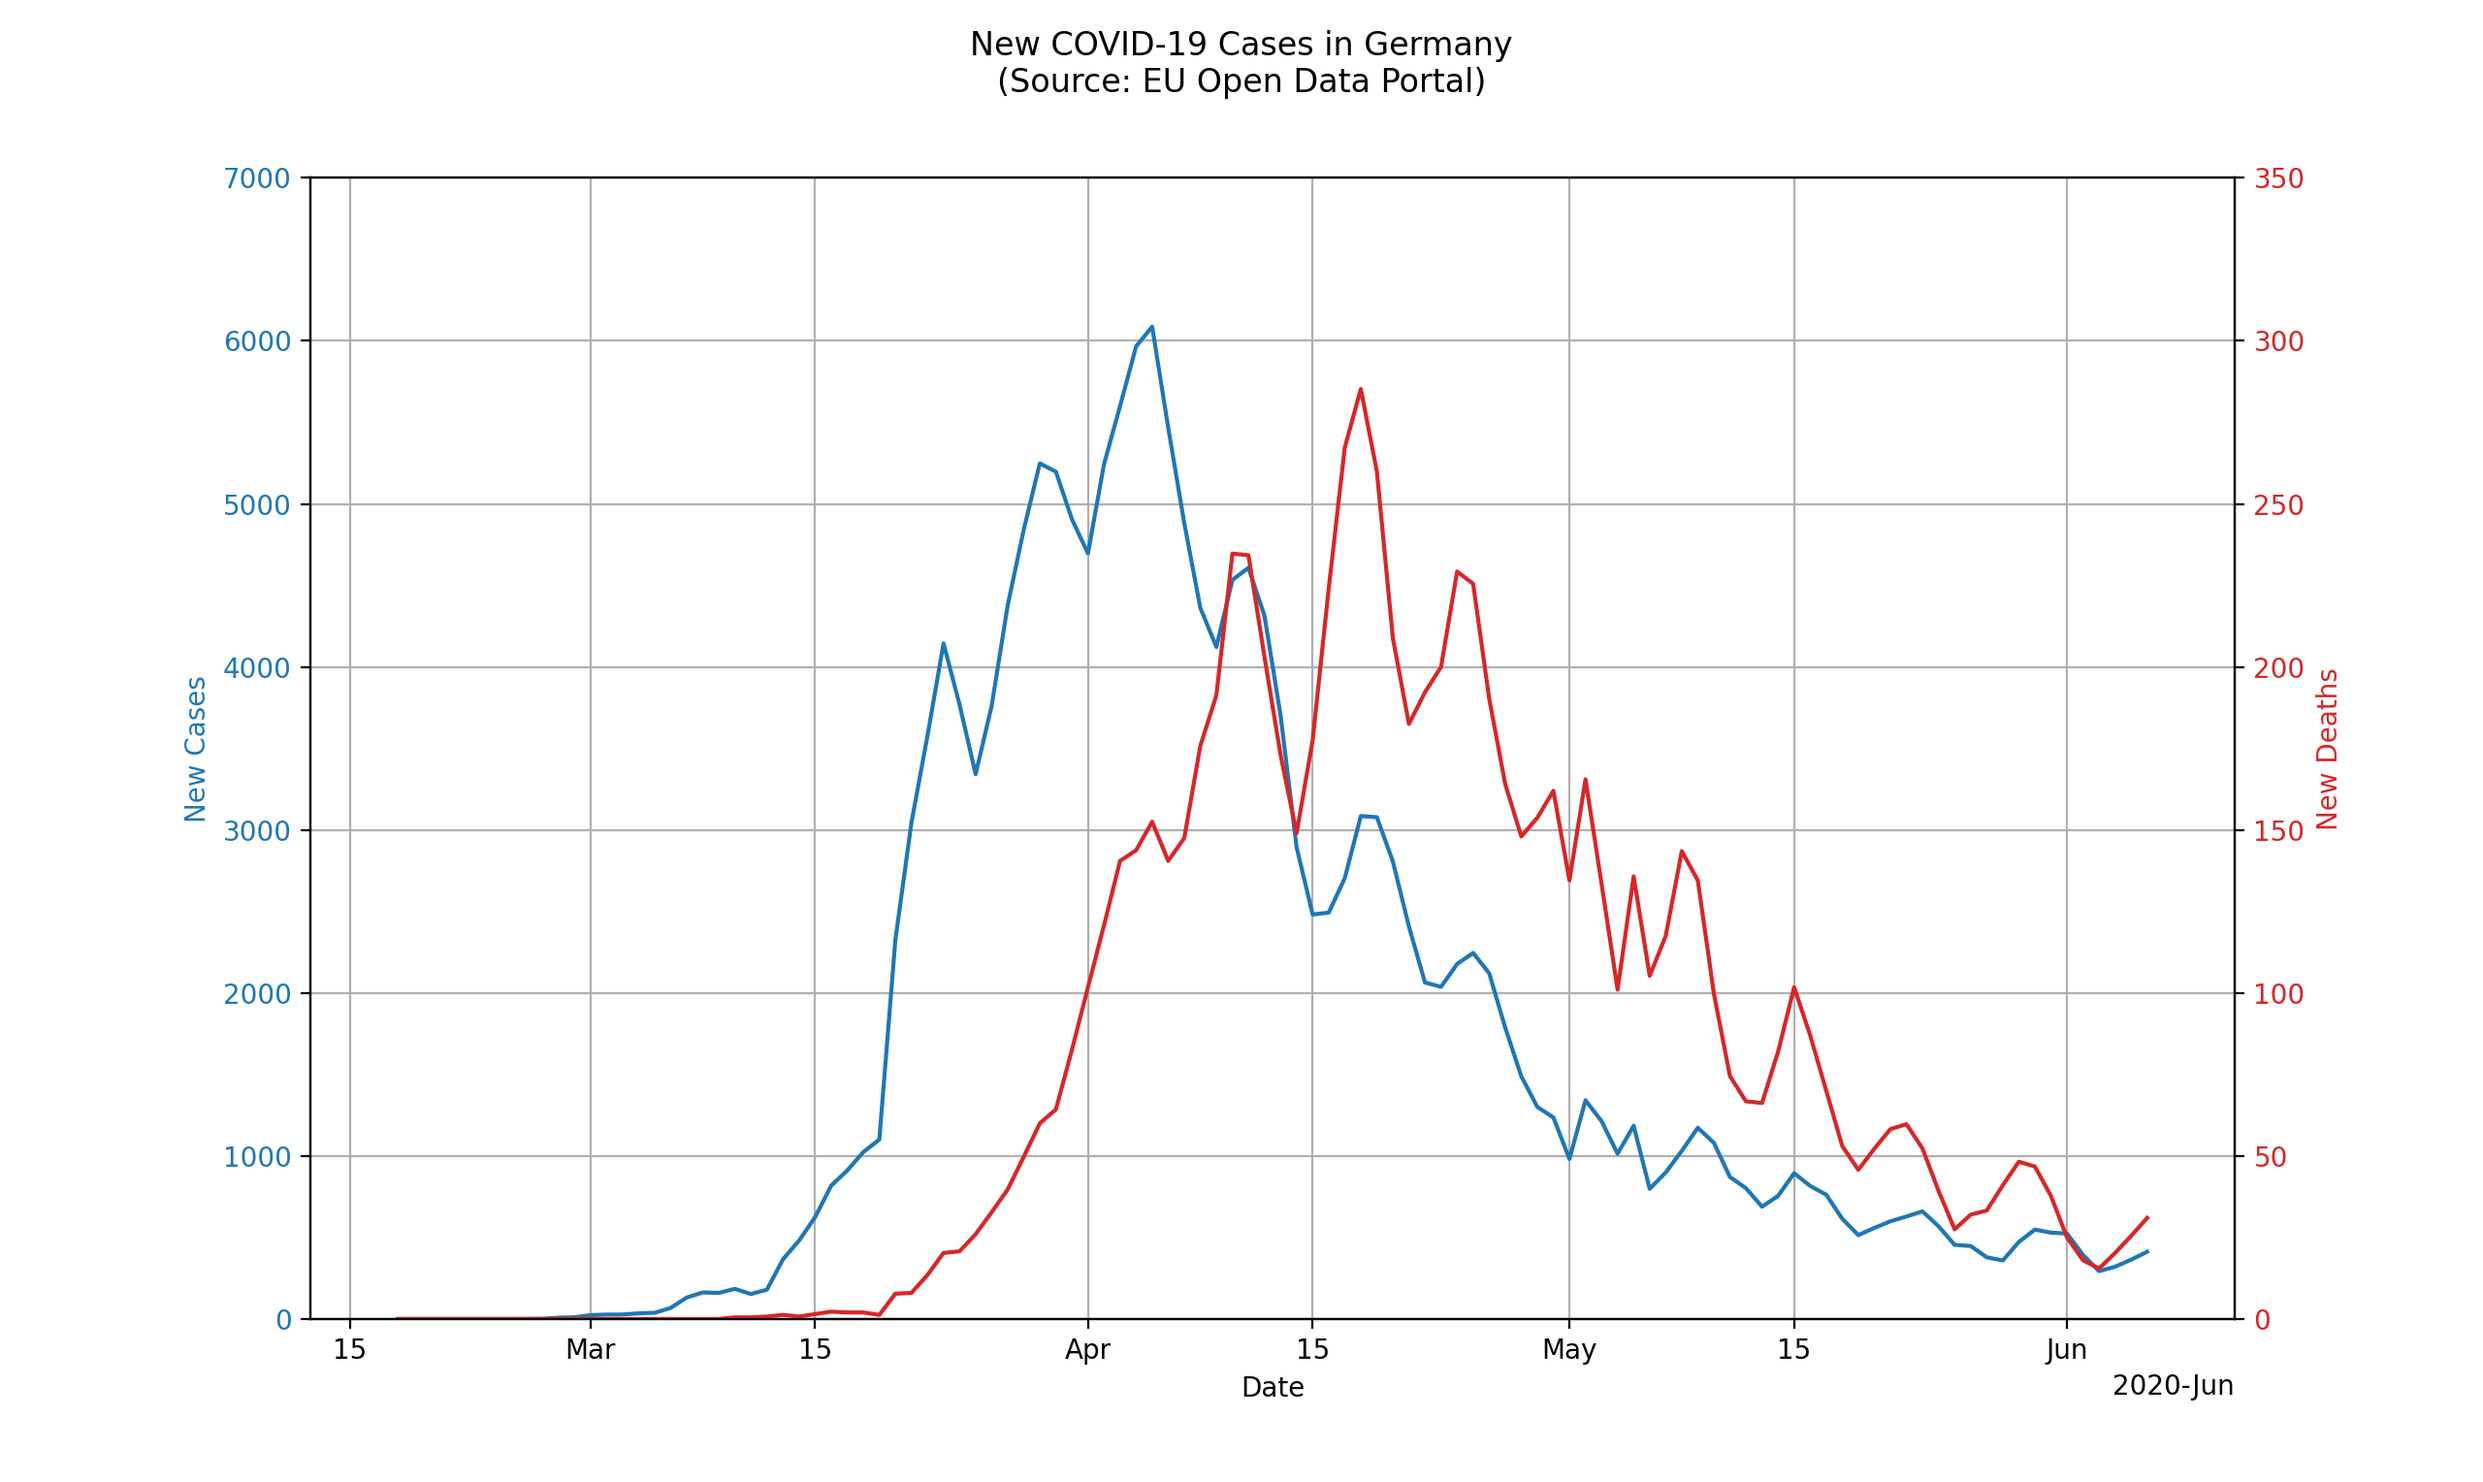
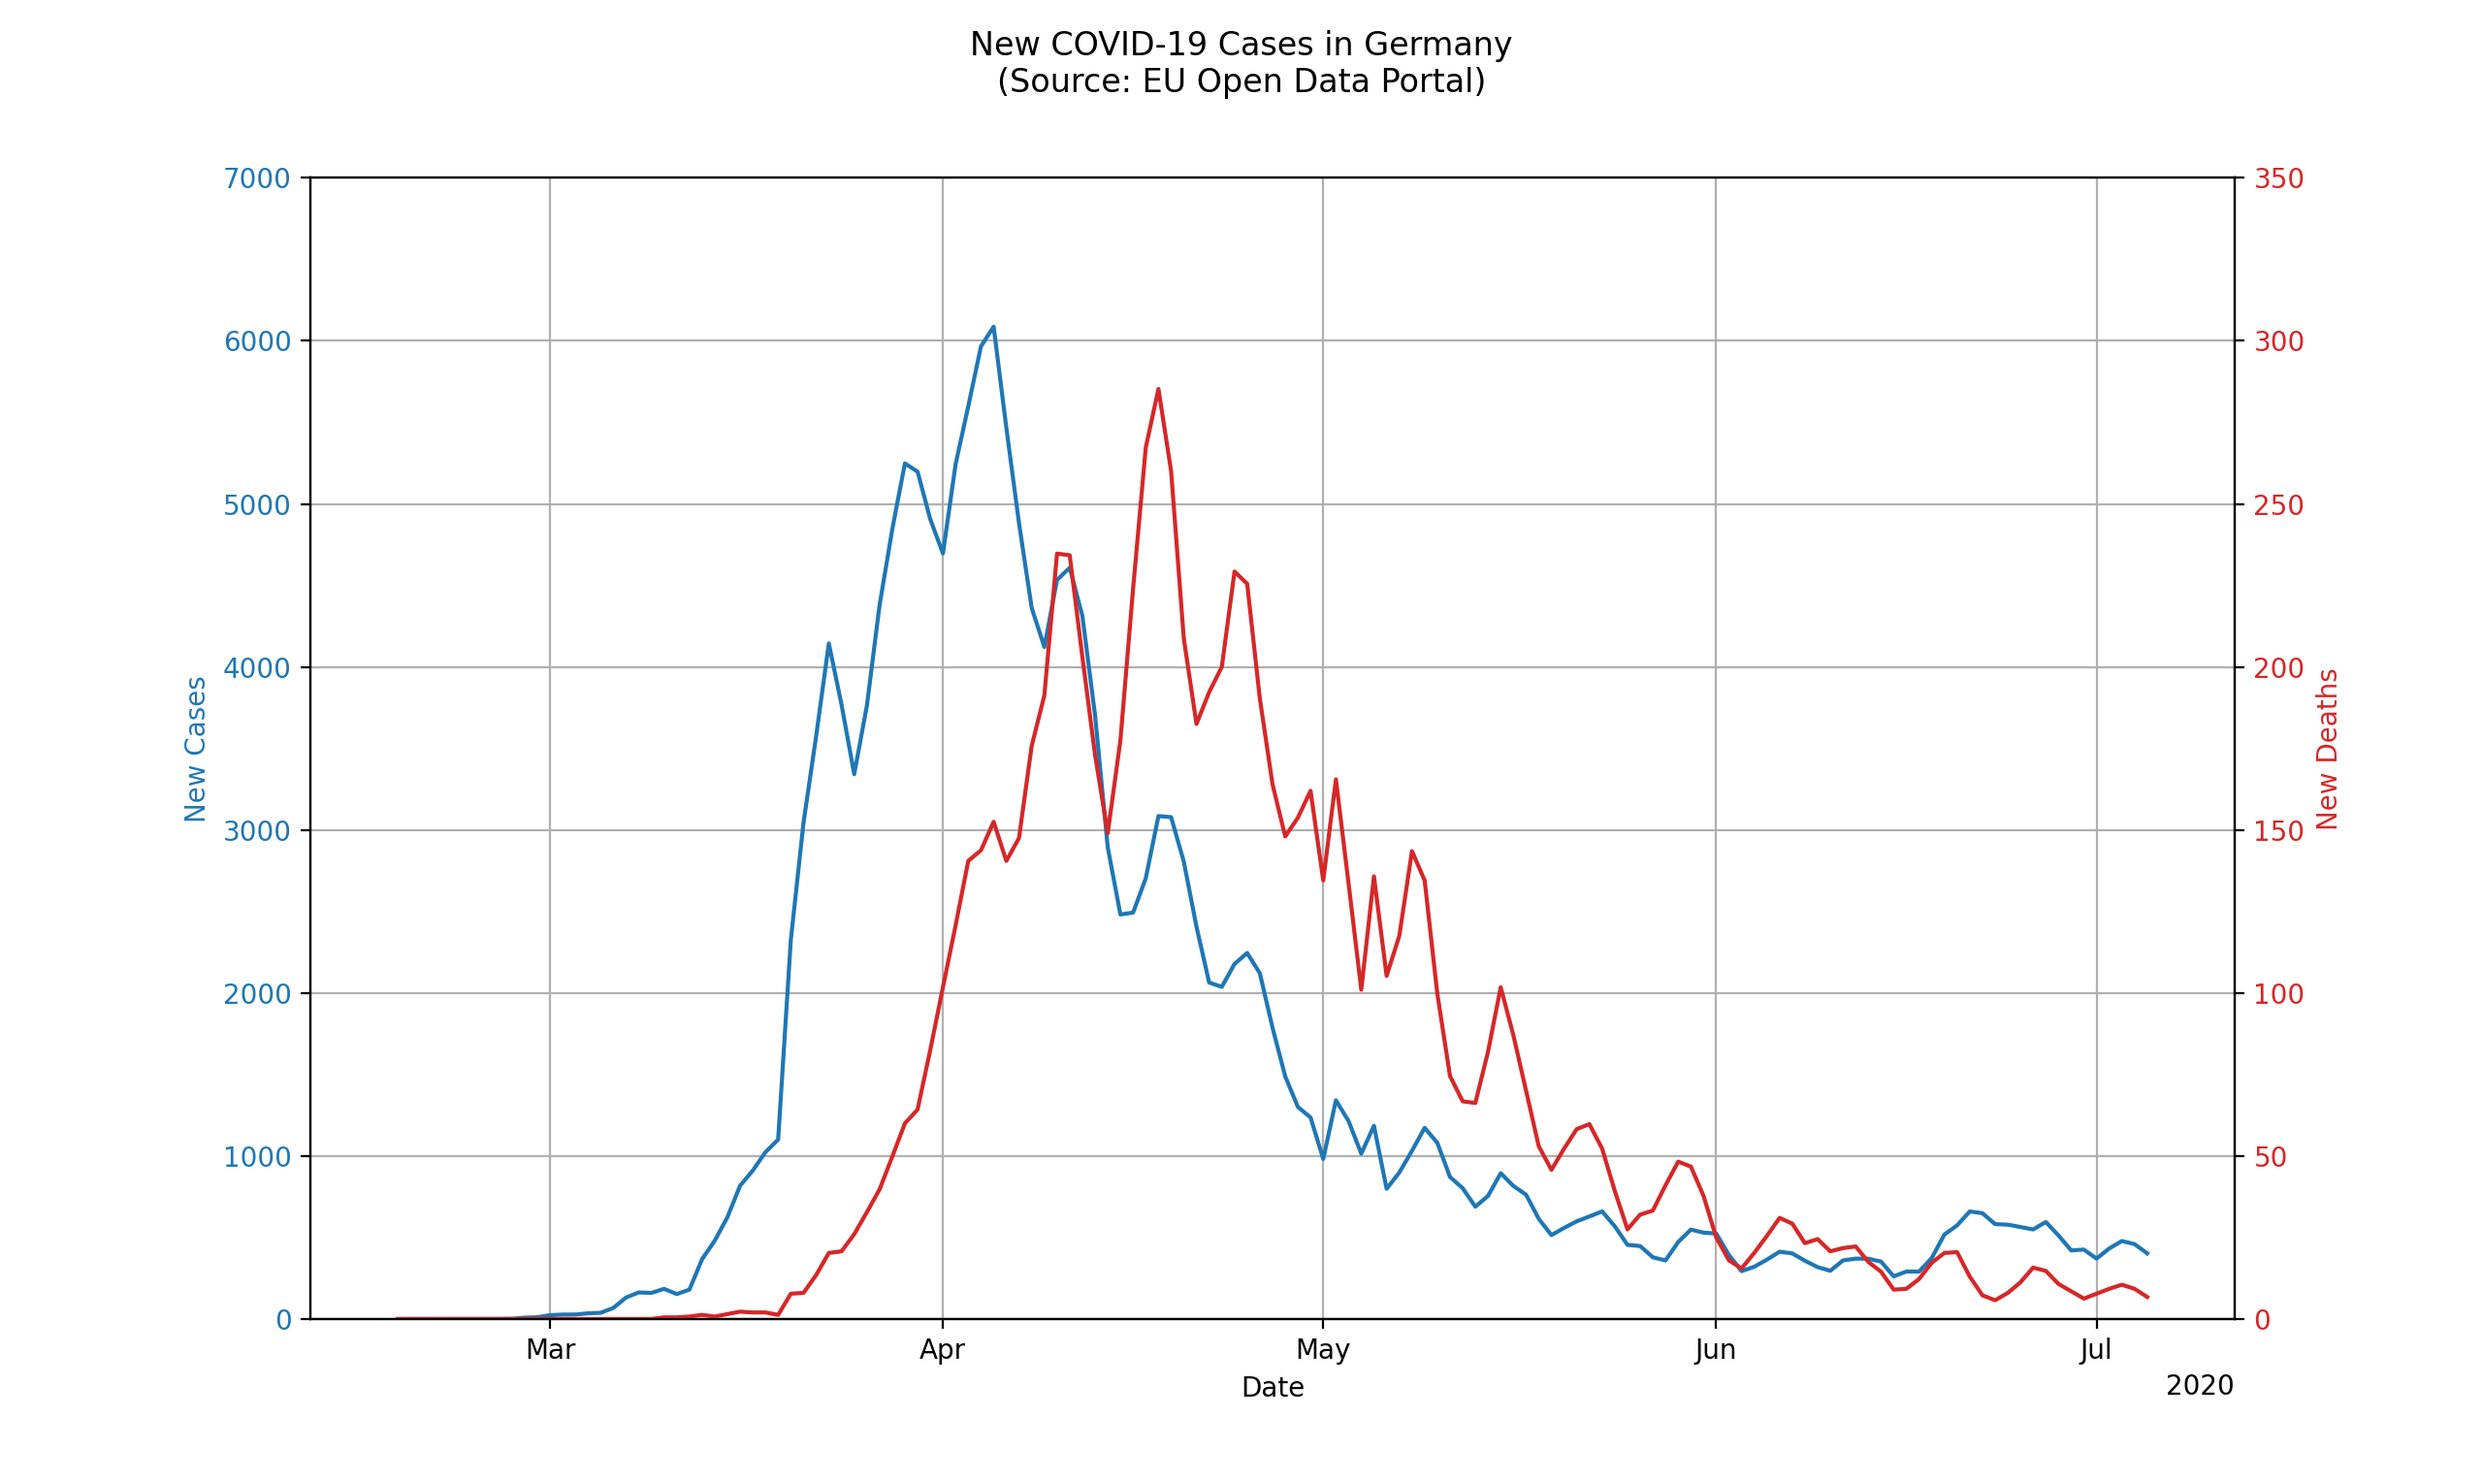
statistics updated

diff --git a/corona_config.py b/corona_config.py
@@ -17,7 +17,7 @@ backup_path_rki_report = "{}/backup_{}".format(data_folder, file_rki_report)
 
 link_corona_cases = "https://opendata.ecdc.europa.eu/covid19/casedistribution/csv"
 link_deaths_germany = "https://www.destatis.de/DE/Themen/Gesellschaft-Umwelt/Bevoelkerung/Sterbefaelle-Lebenserwartung/Tabellen/sonderauswertung-sterbefaelle.xlsx?__blob=publicationFile"
-link_rki_report = "https://www.rki.de/DE/Content/InfAZ/N/Neuartiges_Coronavirus/Situationsberichte/2020-06-03-de.pdf?__blob=publicationFile"
+link_rki_report = "https://www.rki.de/DE/Content/InfAZ/N/Neuartiges_Coronavirus/Situationsberichte/2020-07-01-de.pdf?__blob=publicationFile"
 
 data_sources = [
     (link_corona_cases, path_corona_cases, backup_path_corona_cases),

diff --git a/corona_database.py b/corona_database.py
@@ -115,7 +115,7 @@ def import_corona_cases():
                     country = row["countriesAndTerritories"],
                     geo_id = row["geoId"],
                     country_code = row["countryterritoryCode"],
-                    population = safe_cast(row["popData2018"], int, 0),
+                    population = safe_cast(row["popData2019"], int, 0),
                     continent = row["continentExp"]
                 )
 
@@ -165,7 +165,7 @@ def import_rki_report():
             return float(s)
 
     pdf_file = pdfplumber.open(cfg.path_rki_report)
-    page = pdf_file.pages[11]
+    page = pdf_file.pages[10]
     text = page.extract_text()
     result = re.findall(pattern, text)
 
